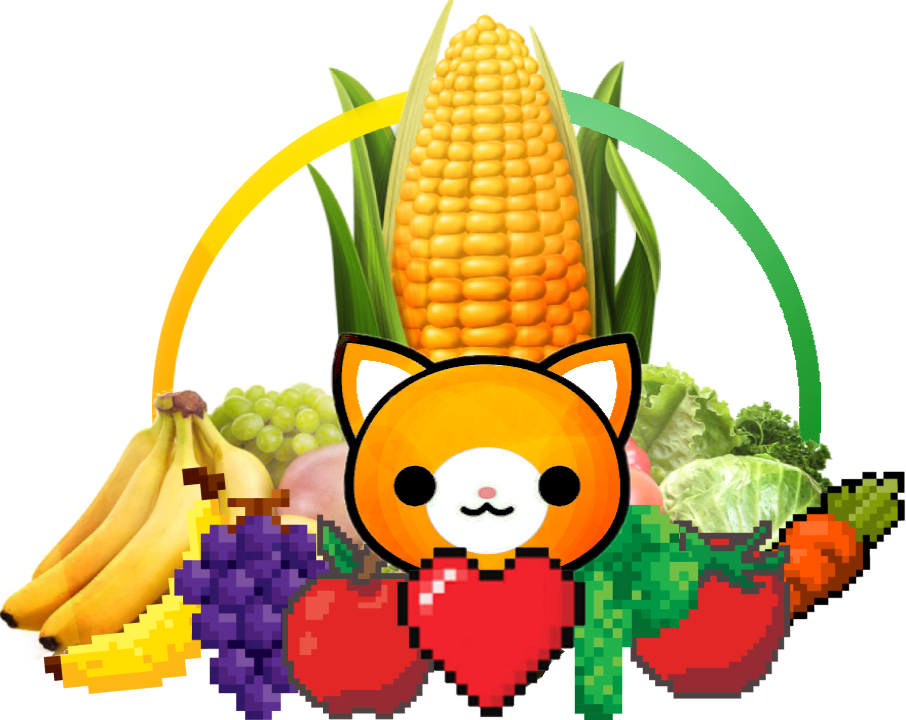
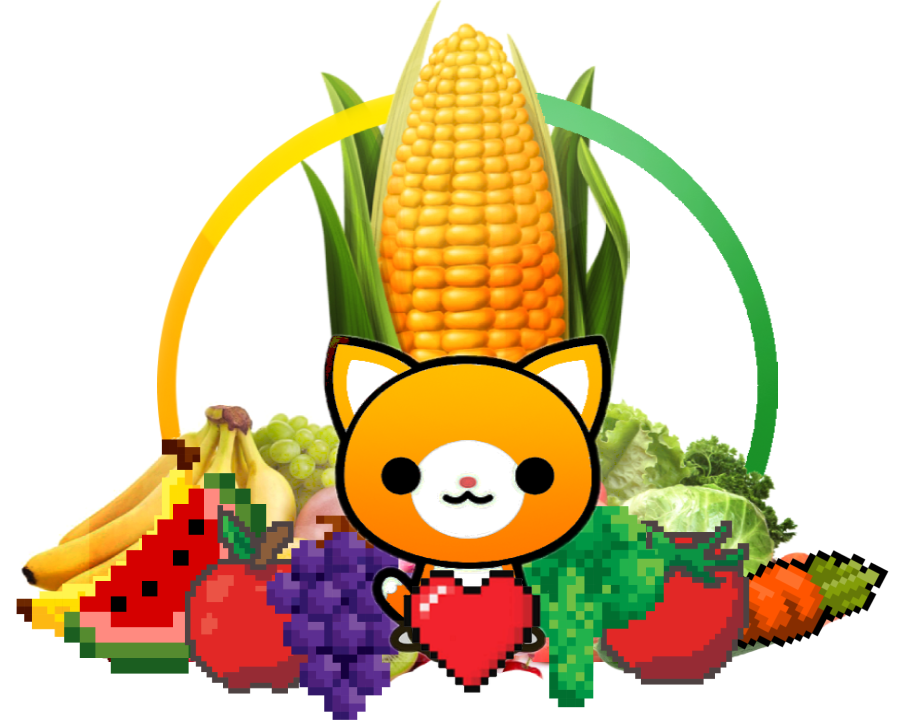
fix main img

diff --git a/src/Components/Market.js b/src/Components/Market.js
@@ -23,46 +23,55 @@ const Home = ({ currentUser, cart, products }) => {
   return (
     <div>
       <Nav />
-      <div className='product-grid'>
-        {
-          products.length > 0 ? (
-            products.map((product) => (
-              <div key={product.id}>
-                <div className='product-img-div'>
-                  <p>{product.price}.00$</p>
-                  <img src={product.URL} alt='URL' />
+      <div className='grid-market'>
+        <div className="sidenav">
+          <a href="#about">About</a>
+          <a href="#services">Services</a>
+          <a href="#clients">Clients</a>
+          <a href="#contact">Contact</a>
+        </div>
+        <div className='product-grid'>
+          {
+            products.length > 0 ? (
+              products.map((product) => (
+                <div key={product.id}>
+                  <div className='product-img-div'>
+                    <p>{product.price}.00$</p>
+                    <img src={product.URL} alt='URL' />
+                  </div>
+                  <div className='product-desc-div'>
+                    <h3>{product.name}</h3>
+                    {
+                      product.description.length > 160 ? <span>{product.description.substring(0, 140)}...<Link onClick={() => {
+                        setVisible(true)
+                        setProduct(product)
+                      }}><strong style={{
+                        background: 'white',
+                        color: '#ff9500',
+                      }}>READ MORE </strong></Link></span> : <span>{product.description}</span>
+                    }
+                    {
+                      cart[product.id] === undefined ? (<button className='cart-off' id={product.id} onClick={() => {
+                        createOrder(product.id, currentUser.id)
+                        document.getElementById(product.id).outerHTML = '<div></div>'
+                      }}>Add To<FaCartArrowDown color='inherit' fontSize='1.5rem' /></button>) : <div></div>
+                    }
+                  </div>
                 </div>
-                <div className='product-desc-div'>
-                  <h3>{product.name}</h3>
-                  {
-                    product.description.length > 160 ? <span>{product.description.substring(0, 140)}...<Link onClick={() => {
-                      setVisible(true)
-                      setProduct(product)
-                    }}><strong style={{
-                      background: 'white',
-                      color: '#ff9500',
-                    }}>READ MORE </strong></Link></span> : <span>{product.description}</span>
-                  }
-                  {
-                    cart[product.id] === undefined ? (<button className='cart-off' id={product.id} onClick={() => {
-                      createOrder(product.id, currentUser.id)
-                      document.getElementById(product.id).outerHTML = '<div></div>'
-                    }}>Add To<FaCartArrowDown color='inherit' fontSize='1.5rem' /></button>) : <div></div>
-                  }
-                </div>
+              ))
+            ) : null
+          }
+          {
+            visible ? (
+              <div>
+                <Product product={productX} setVisible={setVisible} />
+                <div className='layer'></div>
               </div>
-            ))
-          ) : null
-        }
-        {
-          visible ? (
-            <div>
-              <Product product={productX} setVisible={setVisible} />
-              <div className='layer'></div>
-            </div>
-          )
-            : null
-        }
+            )
+              : null
+          }
+        </div>
+
       </div>
     </div >
   )

diff --git a/src/Components/market.css b/src/Components/market.css
@@ -1,12 +1,12 @@
 .product-grid {
   display: grid;
-  grid-template-columns: 1fr 1fr 1fr 1fr;
+  grid-template-columns: 1fr 1fr 1fr;
 }
 
 .product-grid > div {
   display: flex;
   flex-direction: column;
-  margin: 10px 15px;
+  margin: 0 15px 20px 15px;
   align-items: center;
   border: 10px solid #fff;
   border-top: 40px solid #f29718;
@@ -14,31 +14,34 @@
 }
 .product-img-div {
   position: relative;
-  max-width: 300px;
+  max-width: 100%;
   height: 250px;
 }
 
 .product-img-div p {
   position: absolute;
-  left: 5%;
+  left: -5%;
   top: 5%;
   padding: 5px;
   background-color: rgb(255 149 0);
   color: white;
   font-weight: 900;
+  box-shadow: rgba(99, 99, 99, 0.2) 0px 2px 8px 0px;
 }
-
 .exit-popup {
   position: absolute;
   padding: 5px 10px;
-  height: 25px;
-  top: 5%;
-  right: 5%;
-  background-color: #373333;
+  top: 3%;
+  right: 0%;
+  background-color: #383838;
   color: white;
-  margin-left: auto;
+  font-weight: 900;
+  border: 5px solid #ff9500;
+  transition: all 0.2s ease-in;
 }
-
+.exit-popup:hover {
+  background-color: brown;
+}
 .product-img-div img {
   width: 100%;
   height: 250px;
@@ -91,7 +94,7 @@
 }
 .cart-off {
   color: #ff9500;
-  background: white;
+  background: #383838;
   font-size: 20px;
   text-transform: uppercase;
   font-weight: bold;
@@ -99,6 +102,30 @@
   justify-content: center;
   align-items: center;
   padding: 10px;
-  border: 5px solid #ffac00e0;
   box-shadow: rgba(99, 99, 99, 0.2) 0px 2px 8px 0px;
+  border: 5px solid;
+}
+.grid-market {
+  display: grid;
+  grid-template-columns: 1fr 6fr;
+}
+.sidenav {
+  height: 100%;
+  width: 300px;
+  background-color: rgb(255 149 0);
+  overflow-x: hidden;
+  padding-top: 20px;
+  box-shadow: rgba(0, 0, 0, 0.15) 1.95px 1.95px 2.6px;
+}
+
+.sidenav a {
+  padding: 6px 8px 6px 16px;
+  text-decoration: none;
+  font-size: 25px;
+  color: #fff !important;
+  display: block;
+}
+
+.sidenav a:hover {
+  color: #f1f1f1;
 }

diff --git a/src/Components/home.css b/src/Components/home.css
@@ -2,12 +2,11 @@
 @import url('https://fonts.googleapis.com/css2?family=Raleway:wght@700&display=swap'); */
 @import url('https://fonts.googleapis.com/css2?family=Crimson+Text:ital@1&family=Source+Sans+Pro&display=swap');
 body {
-  background-color: #3bb78f;
-  background-image: linear-gradient(315deg, #3bb78f 0%, #0bab64 74%);
+  background-color: #383838;
 }
 .cat-main {
   width: 25%;
   position: fixed;
-  right: -2%;
-  bottom: -2%;
+  right: 38%;
+  bottom: 28%;
 }

diff --git a/src/Components/nav.css b/src/Components/nav.css
@@ -2,6 +2,7 @@
   display: flex;
   justify-content: space-between;
   padding: 0 20px;
+  margin-bottom: 20px;
 }
 .nav-flex-right {
   display: flex;
@@ -60,12 +61,4 @@
 .nav-flex-right svg {
   width: 60px;
   margin-top: 10px;
-}
-.nav-flex-right > * {
-  transition: all 0.3s ease-out;
-}
-.nav-flex-right > *:hover {
-  border-top: 5px solid orangered;
-  box-shadow: 0px 1px 1px 5px rgb(255 117 33 / 70%);
-  background-color: rgba(225, 225, 225, 0.7);
 }
